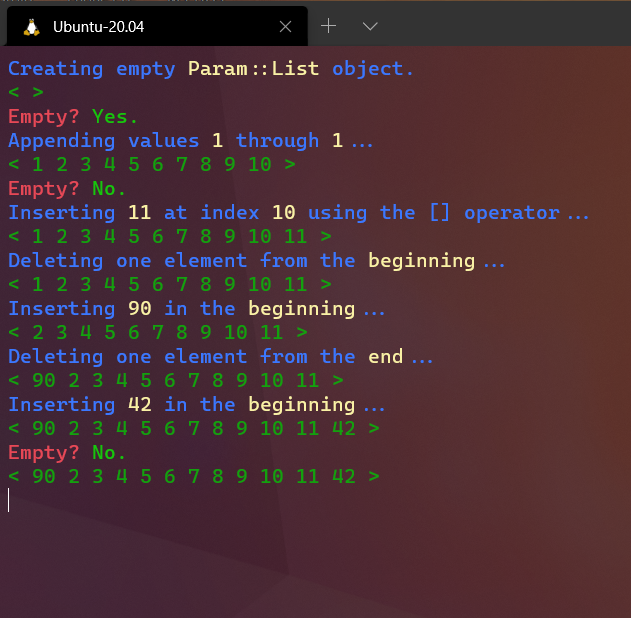
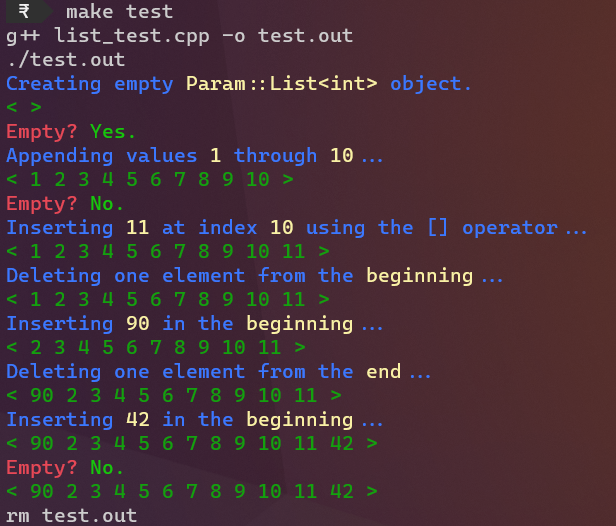
Fix testing

diff --git a/list_test.cpp b/list_test.cpp
@@ -1,4 +1,4 @@
-// List test
+// Testing the Linked List implementation
 
 #include <iostream>
 #include "linked_list"
@@ -11,7 +11,7 @@ int main() {
 	list.show();
 	std::cout << RESET;
 	std::cout << BOLDRED << "Empty? " << GREEN << (list.isEmpty() ? "Yes." : "No.") << RESET << std::endl;
-	std::cout << BOLDBLUE << "Appending values " << YELLOW << 1 << BOLDBLUE << " through " << YELLOW << 1 << BOLDBLUE << "..." << RESET << std::endl;
+	std::cout << BOLDBLUE << "Appending values " << YELLOW << 1 << BOLDBLUE << " through " << YELLOW << 10 << BOLDBLUE << "..." << RESET << std::endl;
 	for (int i = 0; i < 10; i++)
 		list[i] = i + 1;
 	std::cout << GREEN;

diff --git a/README.md b/README.md
@@ -55,10 +55,9 @@ Properly cleans up the dynamically allocated memory previously occupied by the l
   Where 1, 2, 3, ..., n are the values stored in each of the nodes in the list.
 
 ## Testing
-Compile and execute `list_test.cpp`.
+Run `make test` using GNU Make.
 ``` bash
-g++ list_test -o list_test
-./list_test
+make test
 ```
 ![Test output](docs/test.png)
 
